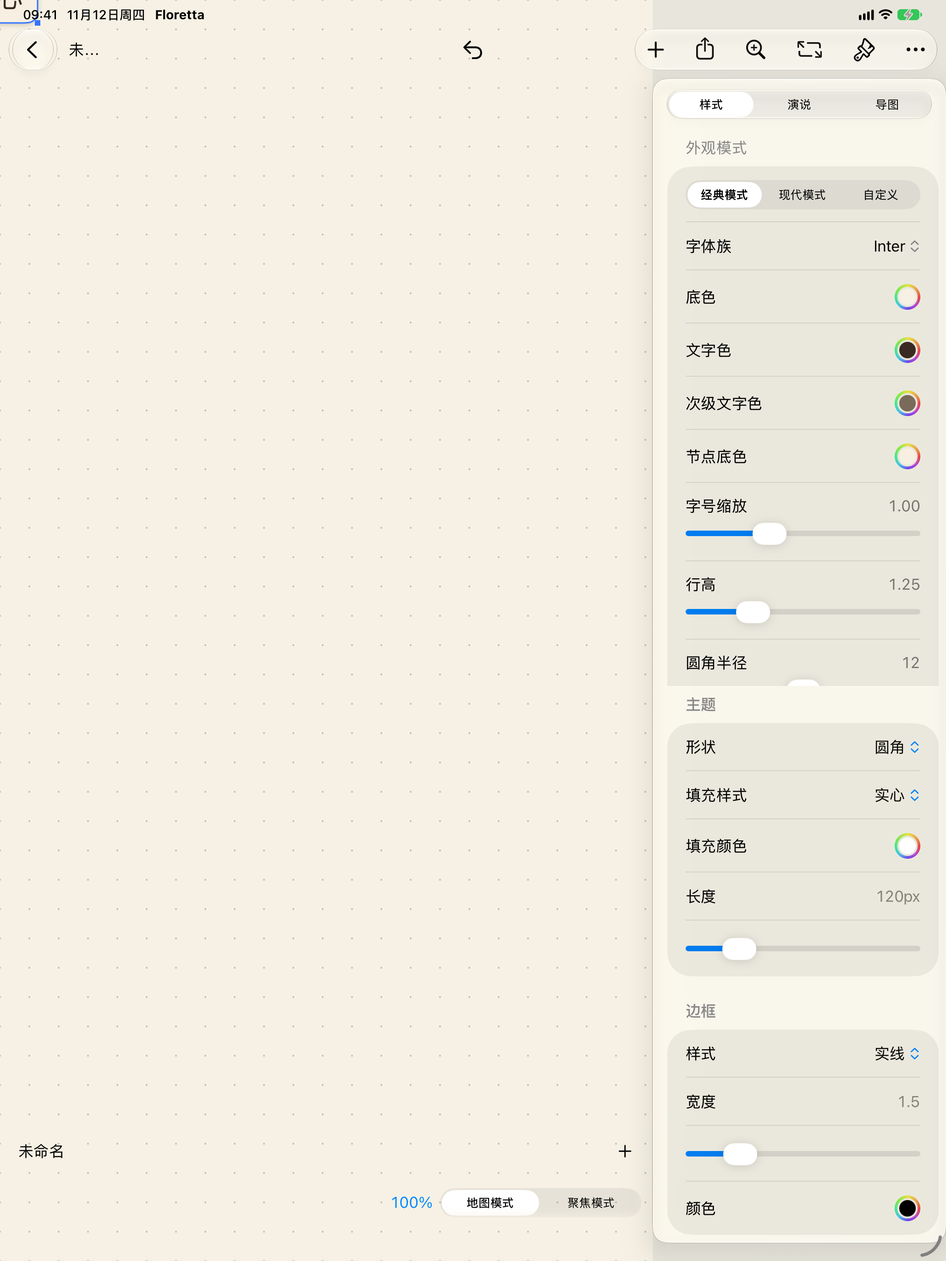
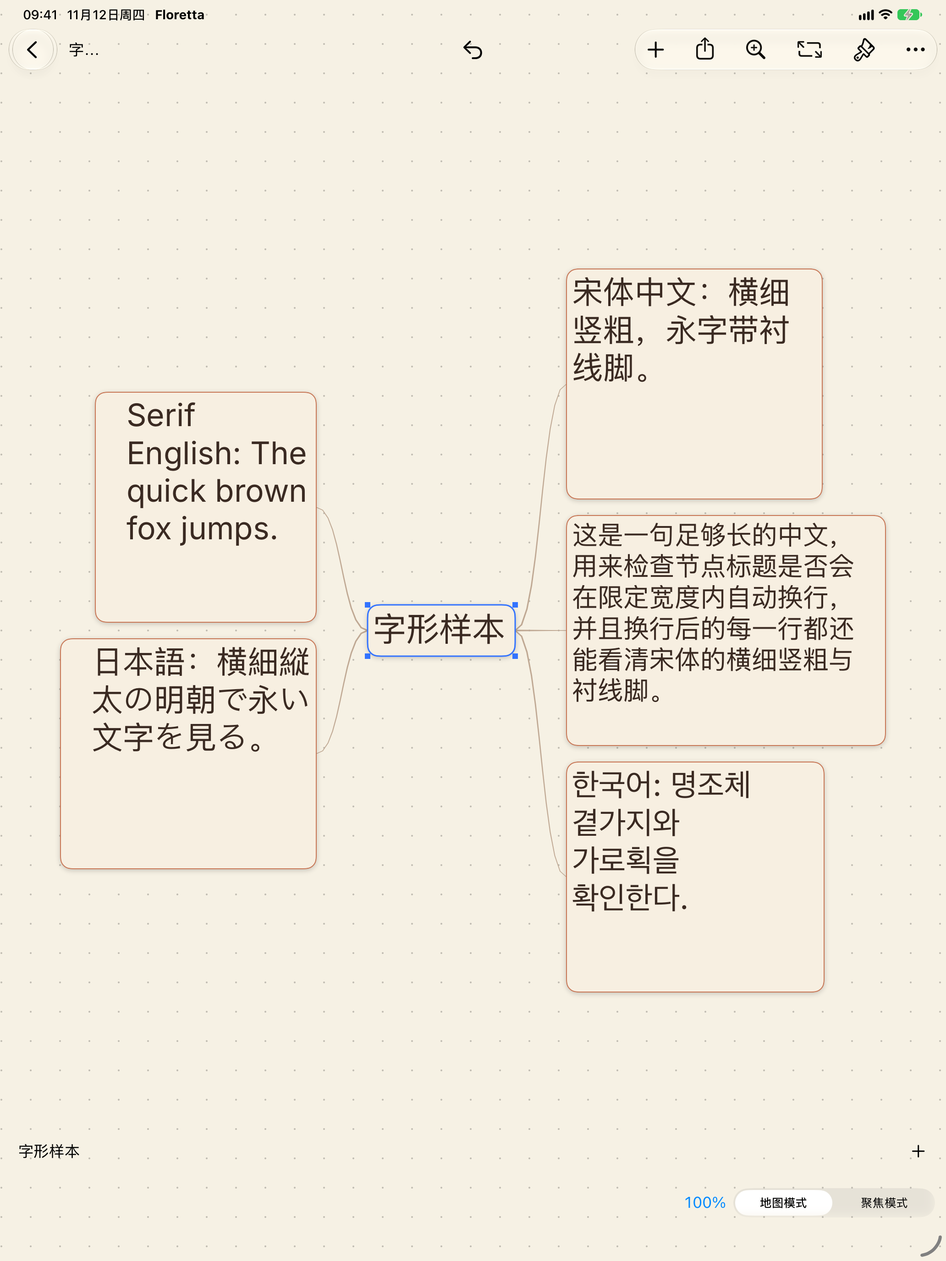
Fix modern canvas text and retake typography screenshots
Switching to 跟随系统 used to update inspector tokens only; Canvas kept
painting the previous system-serif face. Give system-sans / system-serif
distinct Font.system identities, put the cascaded platform font on the
drawn runs, and toggle the iPad inspector closed so the same glyph
document can be photographed in classic, modern, and Classic+Inter.

Record iPad Simulator PostScript names honestly: Songti and AppleMyungjo
are not in the iOS 27.2 runtime, so classic Chinese stays PingFang and
classic Korean stays SD Gothic. Measure 500-node peak memory and FPS
through XCUITest and the unchanged PR #117 probe.

diff --git a/FlorettaTests/ThemeFontCascadeTests.swift b/FlorettaTests/ThemeFontCascadeTests.swift
@@ -52,14 +52,73 @@ final class ThemeFontCascadeTests: XCTestCase {
     }
 
     func testFollowSystemChineseUsesPingFangWhenAvailable() {
-        guard let ping = ThemeFontCascade.firstAvailable(ThemeFontCascade.chineseSansNames) else {
-            XCTFail("PingFang SC was not found on this Mac")
-            return
-        }
         let used = ThemeFontCascade.postScriptName(familyID: "system-sans", for: "汉字")
-        XCTAssertEqual(used, ping)
+        XCTAssertTrue(
+            used.localizedCaseInsensitiveContains("PingFang") || used.localizedCaseInsensitiveContains("NotoSans"),
+            "system-sans Chinese should be PingFang / Noto Sans, used \(used)"
+        )
         let interCJK = ThemeFontCascade.postScriptName(familyID: "inter", for: "汉字")
         XCTAssertNotEqual(interCJK, "Inter-Regular")
+    }
+
+    func testSystemSansAndSystemSerifResolveDifferentFacesForEachLanguage() {
+        // Modern (跟随系统) must not keep the classic serif cascade.
+        let sansEn = ThemeFontCascade.postScriptName(familyID: "system-sans", for: "Hello")
+        let serifEn = ThemeFontCascade.postScriptName(familyID: "system-serif", for: "Hello")
+        XCTAssertNotEqual(sansEn, serifEn, "English system-sans \(sansEn) must differ from system-serif \(serifEn)")
+        XCTAssertFalse(
+            sansEn.localizedCaseInsensitiveContains("NewYork")
+                || sansEn.localizedCaseInsensitiveContains("Georgia")
+                || sansEn.localizedCaseInsensitiveContains("Times")
+                || sansEn.localizedCaseInsensitiveContains("Garamond")
+                || sansEn.localizedCaseInsensitiveContains("Song"),
+            "system-sans English must not be a serif face, used \(sansEn)"
+        )
+        XCTAssertTrue(
+            serifEn.localizedCaseInsensitiveContains("NewYork")
+                || serifEn.localizedCaseInsensitiveContains("Georgia")
+                || serifEn.localizedCaseInsensitiveContains("Times")
+                || serifEn.localizedCaseInsensitiveContains("Song"),
+            "system-serif English used \(serifEn)"
+        )
+
+        let sansZh = ThemeFontCascade.postScriptName(familyID: "system-sans", for: "汉字")
+        let serifZh = ThemeFontCascade.postScriptName(familyID: "system-serif", for: "汉字")
+        XCTAssertNotEqual(sansZh, serifZh, "Chinese system-sans \(sansZh) must differ from system-serif \(serifZh)")
+        XCTAssertTrue(
+            sansZh.localizedCaseInsensitiveContains("PingFang") || sansZh.localizedCaseInsensitiveContains("NotoSans"),
+            "system-sans Chinese used \(sansZh)"
+        )
+        XCTAssertTrue(
+            ["STSongti-SC-Regular", "STSong", "STSongti-TC-Regular"].contains(serifZh)
+                || serifZh.localizedCaseInsensitiveContains("Song"),
+            "system-serif Chinese used \(serifZh)"
+        )
+
+        let sansJa = ThemeFontCascade.postScriptName(familyID: "system-sans", for: "あいうえお")
+        let serifJa = ThemeFontCascade.postScriptName(familyID: "system-serif", for: "あいうえお")
+        XCTAssertFalse(
+            sansJa.localizedCaseInsensitiveContains("Mincho")
+                || sansJa.localizedCaseInsensitiveContains("Songti")
+                || sansJa.localizedCaseInsensitiveContains("STSong")
+                || sansJa.localizedCaseInsensitiveContains("NewYork"),
+            "system-sans Japanese must not stay on a mincho/serif face, used \(sansJa)"
+        )
+        // Hiragino Sans is preferred; PingFang also covers kana and may win.
+        print("FONT_RESOLVE system-sans ja=\(sansJa) ko=\(ThemeFontCascade.postScriptName(familyID: "system-sans", for: "한국어")) en=\(sansEn) zh=\(sansZh)")
+        print("FONT_RESOLVE system-serif ja=\(serifJa) ko=\(ThemeFontCascade.postScriptName(familyID: "system-serif", for: "한국어")) en=\(serifEn) zh=\(serifZh)")
+        _ = serifJa
+
+        let sansKo = ThemeFontCascade.postScriptName(familyID: "system-sans", for: "한국어")
+        let serifKo = ThemeFontCascade.postScriptName(familyID: "system-serif", for: "한국어")
+        XCTAssertNotEqual(sansKo, serifKo, "Korean system-sans \(sansKo) must differ from system-serif \(serifKo)")
+        XCTAssertTrue(
+            sansKo.localizedCaseInsensitiveContains("Gothic")
+                || sansKo.localizedCaseInsensitiveContains("AppleSD")
+                || sansKo.localizedCaseInsensitiveContains("PingFang")
+                || sansKo.localizedCaseInsensitiveContains("NotoSans"),
+            "system-sans Korean used \(sansKo)"
+        )
     }
 
     func testJapaneseAndKoreanFallbackPostScriptNames() {

diff --git a/Floretta/Shared/Canvas/MapExport.swift b/Floretta/Shared/Canvas/MapExport.swift
@@ -370,7 +370,11 @@ private struct MapExportView: View {
                     context.draw(
                         NodeTextTypography.canvasText(
                             node.text,
-                            font: FlorettaTitleFont.font(design: node.fontDesign, size: node.fontSize, familyID: appearanceProfile.fontFamilyID), lineHeight: appearanceProfile.lineHeight
+                            font: FlorettaTitleFont.font(design: node.fontDesign, size: node.fontSize, familyID: appearanceProfile.fontFamilyID),
+                            lineHeight: appearanceProfile.lineHeight,
+                            familyID: appearanceProfile.fontFamilyID,
+                            nodeDesign: node.fontDesign,
+                            size: node.fontSize
                         )
                         .foregroundStyle(color(node.textColor)),
                         in: textRect
@@ -649,11 +653,37 @@ enum ThemeCurvePath {
 
 extension NodeTextTypography {
     /// Same paragraph style as `CoreTextFontMetrics`, so export and the canvas wrap alike.
-    static func canvasText(_ string: String, font: Font, lineHeight: Double = 1.25) -> Text {
-        let ns = NSAttributedString(string: string, attributes: [
+    static func canvasText(
+        _ string: String,
+        font: Font,
+        lineHeight: Double = 1.25,
+        familyID: String? = nil,
+        nodeDesign: String = "default",
+        size: CGFloat? = nil
+    ) -> Text {
+        var attributes: [NSAttributedString.Key: Any] = [
             .paragraphStyle: paragraphStyle(lineHeight: lineHeight),
-        ])
-        return Text(AttributedString(ns)).font(font)
+        ]
+        // Put the resolved face on the runs themselves. Canvas `Text.font`
+        // alone was not enough for system-sans: the Font identity collided
+        // with the previous system-serif face and glyphs stayed Songti /
+        // New York after the inspector already showed 跟随系统.
+        if let familyID, let size {
+            attributes[.font] = ThemeFontCascade.platformFont(
+                familyID: familyID,
+                nodeDesign: nodeDesign,
+                size: size
+            )
+        }
+        let ns = NSAttributedString(string: string, attributes: attributes)
+        let text = Text(AttributedString(ns))
+        // When the run already carries the cascaded platform font, do not
+        // also apply Text.font: on iOS, Font.system(design: .serif) falls
+        // back to PingFang for Chinese and would hide Songti.
+        if attributes[.font] != nil {
+            return text
+        }
+        return text.font(font)
     }
 }
 

diff --git a/Floretta/Shared/Shell/ThemeFontCascade.swift b/Floretta/Shared/Shell/ThemeFontCascade.swift
@@ -109,6 +109,14 @@ enum ThemeFontCascade {
         let family = AppearanceCatalog.family(id: familyID)
             ?? AppearanceCatalog.family(id: "system-serif")!
         let base = latinPrimary(for: family, size: point)
+        // On iOS, the native New York UI font falls back to PingFang /
+        // Apple SD Gothic for CJK — that would make Classic Chinese look
+        // gothic. Keep the explicit Songti / Mincho / Myungjo cascade on
+        // serif families. system-sans keeps the raw UI font so English is
+        // SF and CJK stays gothic (PingFang / Apple SD Gothic).
+        if family.id == "system-sans" {
+            return base
+        }
         return applyingCascade(base, kind: family.kind)
     }
 
@@ -122,6 +130,16 @@ enum ThemeFontCascade {
         default:
             // Both default and serif follow the selected family, so Classic
             // can be switched to a sans face and the map text actually changes.
+            // Use Font.system(design:) for the two system families so SwiftUI
+            // Canvas sees a different Font identity than the previous mode.
+            let family = AppearanceCatalog.family(id: familyID)
+                ?? AppearanceCatalog.family(id: "system-serif")!
+            if family.id == "system-sans" {
+                return .system(size: point, design: .default)
+            }
+            if family.id == "system-serif" {
+                return .system(size: point, design: .serif)
+            }
             return font(from: ctFont(familyID: familyID, size: point))
         }
     }
@@ -179,11 +197,12 @@ enum ThemeFontCascade {
         let names = cascadePostScriptNames(kind: kind)
         guard !names.isEmpty else { return font }
         let fallbacks = names.map { CTFontDescriptorCreateWithNameAndSize($0 as CFString, CTFontGetSize(font)) }
-        let copy = CTFontDescriptorCreateCopyWithAttributes(
-            CTFontCopyFontDescriptor(font),
+        let attributes = CTFontDescriptorCreateWithAttributes(
             [kCTFontCascadeListAttribute: fallbacks] as CFDictionary
         )
-        return CTFontCreateWithFontDescriptor(copy, CTFontGetSize(font), nil)
+        // Copy the live font rather than recreating it from a descriptor, so
+        // the Latin primary face (Inter, EB Garamond, …) is preserved.
+        return CTFontCreateCopyWithAttributes(font, CTFontGetSize(font), nil, attributes)
     }
 
     private static func systemSerif(size: CGFloat) -> CTFont? {

diff --git a/Floretta/Shared/FlorettaApp.swift b/Floretta/Shared/FlorettaApp.swift
@@ -382,8 +382,38 @@ enum AppLaunch {
         var library: LibraryModel
     }
 
+    /// Prints resolved PostScript names for typography evidence. Off unless
+    /// launched with `-FlorettaDumpFonts`.
+    static func dumpFontsIfRequested() {
+        let arguments = ProcessInfo.processInfo.arguments
+        guard arguments.contains("-FlorettaDumpFonts") else { return }
+        ThemeFontCascade.registerBundledFonts()
+        let families = ["system-serif", "system-sans", "inter"]
+        let samples = [("en", "Hello"), ("zh", "汉字"), ("ja", "あいうえお"), ("ko", "한국어")]
+        var lines: [String] = []
+        for family in families {
+            for (lang, text) in samples {
+                let ps = ThemeFontCascade.postScriptName(familyID: family, for: text)
+                let line = "FONT_RESOLVE family=\(family) lang=\(lang) text=\(text) ps=\(ps)"
+                print(line)
+                lines.append(line)
+            }
+        }
+        fflush(stdout)
+        let payload = lines.joined(separator: "\n") + "\n"
+        let data = Data(payload.utf8)
+        let tmp = FileManager.default.temporaryDirectory.appendingPathComponent("font-resolve.txt")
+        try? data.write(to: tmp)
+        if let raw = getenv("FLORETTA_UITEST_DIR") {
+            let dir = URL(fileURLWithPath: String(cString: raw), isDirectory: true)
+            try? FileManager.default.createDirectory(at: dir, withIntermediateDirectories: true)
+            try? data.write(to: dir.appendingPathComponent("font-resolve.txt"))
+        }
+    }
+
     @MainActor
     static func make() -> Session {
+        dumpFontsIfRequested()
         let arguments = ProcessInfo.processInfo.arguments
         guard arguments.contains(uiTestArgument) else {
             let session = Session(recovery: RecoveryPresenter(), settings: .shared, library: .shared)

diff --git a/Floretta/Shared/Canvas/InfiniteCanvas.swift b/Floretta/Shared/Canvas/InfiniteCanvas.swift
@@ -144,6 +144,9 @@ struct InfiniteCanvas: View {
                 draw(in: context, size: size, at: timeline.date.timeIntervalSinceReferenceDate)
                 CanvasPerfRun.endDraw(perf)
             }
+            // Distinct identity so a mode switch (system-serif ↔ system-sans)
+            // cannot reuse the previous Canvas glyph cache.
+            .id(appearanceProfile.fontFamilyID)
             .allowsHitTesting(false)
             .onChange(of: timeline.date) { _, date in
                 let time = date.timeIntervalSinceReferenceDate
@@ -1905,7 +1908,10 @@ struct InfiniteCanvas: View {
         var text = NodeTextTypography.canvasText(
             shown,
             font: FlorettaTitleFont.font(design: node.fontDesign, size: pointSize, familyID: appearanceProfile.fontFamilyID),
-            lineHeight: appearanceProfile.lineHeight
+            lineHeight: appearanceProfile.lineHeight,
+            familyID: appearanceProfile.fontFamilyID,
+            nodeDesign: node.fontDesign,
+            size: pointSize
         )
             .foregroundStyle(color(node.textColor))
         if node.bold { text = text.bold() }

diff --git a/Floretta/Shared/Shell/DocumentEditor.swift b/Floretta/Shared/Shell/DocumentEditor.swift
@@ -245,7 +245,11 @@ struct DocumentEditor: View {
                         // A compact inspector is a sheet; after it is dismissed
                         // the user still needs a one-tap way back in.
                         Button {
-                            showInspector = true
+                            // Toggle, same as the macOS 样式 command. Assigning
+                            // true only left iPad regular-width with no way to
+                            // close the trailing inspector (the dismiss handle
+                            // is compact-sheet-only).
+                            showInspector.toggle()
                         } label: {
                             Image(systemName: "paintbrush")
                         }

diff --git a/docs/THEME-MODES.md b/docs/THEME-MODES.md
@@ -20,9 +20,11 @@
 
 随包拉丁 Regular 子集与许可证见 `docs/THIRD-PARTY-FONTS.md`。合计 842,556 bytes。思源宋体 GB2312+拉丁子集实测 **4,876,368 bytes（4.65 MiB）**，超过 3 MB 上限，未加入仓库或 App 包。
 
-中文衬线走系统宋体，不假装拉丁衬线能覆盖汉字。本机（2026-11-12）查询：`Songti SC` → `STSongti-SC-Regular`；`STSong` → `STSong`。
+中文衬线走系统宋体，不假装拉丁衬线能覆盖汉字。macOS 本机（2026-11-12）查询：`Songti SC` → `STSongti-SC-Regular`；`STSong` → `STSong`。
 
-衬线级联顺序：所选拉丁面或系统衬线（New York / Georgia）→ `STSongti-SC-Regular` / `STSong` / `STSongti-TC-Regular` → `Hiragino Mincho ProN`（`HiraMinProN-W3` 在本机可解析）→ `AppleMyungjo`。非衬线：所选拉丁面或系统无衬线（SF）→ `PingFangSC-Regular` → `HiraginoSans-W3` → `AppleSDGothicNeo-Regular`。
+衬线级联顺序：所选拉丁面或系统衬线（New York / Georgia）→ `STSongti-SC-Regular` / `STSong` / `STSongti-TC-Regular` → `Hiragino Mincho ProN`（`HiraMinProN-W3`）→ `AppleMyungjo`。非衬线：所选拉丁面或系统无衬线（SF）→ PingFang → `HiraginoSans-W3` → Apple SD Gothic。
+
+**iOS 模拟器字体库存与 macOS 不同，不得把 macOS 的宋体结果写成 iPad 截图上的事实。** iOS 27.2 模拟器运行时（`ASC-iPadPro13-M5`）的 `/System/Library/Fonts` 有 `HiraginoMincho.ttc`、`AppleSDGothicNeo.ttc`、`NewYork.ttf`、`SFUI.ttf`，**没有** `STSongti` / `STSong` / `AppleMyungjo` 字体文件。因此在这台模拟器上，经典模式的中文不能变成宋体，韩文也不能变成 Myungjo。下面「iPad 模拟器」表是 `-FlorettaDumpFonts` 在同一轮截图启动里写出的实际 PostScript 名（`docs/reviews/theme-modes/font-resolve-ipad.txt`，2026-11-12 22:55:29 CST）。没有编造，也没有把 PingFang 说成宋体。
 
 ## 字体解析表（单测实测 PostScript 名）
 
@@ -40,6 +42,27 @@
 | 한국어 | `inter` | `AppleSDGothicNeo-Regular` | 非衬线韩文回落 |
 | （各拉丁 Regular） | 见下 | 与声明一致 | `EBGaramond-Regular`、`CrimsonPro-Regular`、`LibreBaskerville-Regular`、`NotoSerif-Regular`、`Inter-Regular`、`IBMPlexSans`、`NotoSans-Regular` |
 
+macOS 上 `ThemeFontCascadeTests` 在本轮补了一项 `testSystemSansAndSystemSerifResolveDifferentFacesForEachLanguage`，2026-11-12 22:43:46–22:44:01 CST，7/0，`** TEST SUCCEEDED **`。macOS 实测：`system-sans` 英文 `.SFNS-Regular`、中文 `.PingFangUIDisplaySC-Regular`、日文 `.CJKSymbolsFallbackSC-Regular`（不是 Hiragino Sans，据实记录）、韩文 `.AppleSDGothicNeoI-Regular`；`system-serif` 英文 `.NewYork-Regular`、中文/日文 `STSongti-SC-Regular`、韩文 `AppleMyungjo`。
+
+### iPad 模拟器（截图同一进程，2026-11-12 22:55:29 CST）
+
+| 样本 | 目录 id | 实际 PostScript 名 | 说明 |
+| --- | --- | --- | --- |
+| Hello | `system-serif` | `.NewYork-Regular` | 经典英文是衬线 |
+| Hello | `system-sans` | `.SFUI-Regular` | 现代英文是无衬线；与经典不同 |
+| Hello | `inter` | `Inter-Regular` | 经典+Inter 的拉丁面 |
+| 汉字 | `system-serif` | `.PingFangUIDisplaySC-Regular` | **不是宋体**。模拟器未安装 Songti / STSong，据实回退 |
+| 汉字 | `system-sans` | `.PingFangUIDisplaySC-Regular` | 现代中文是黑体；与经典中文同一张脸，不能说「现代切换后中文字形变了」 |
+| 汉字 | `inter` | `PingFangSC-Regular` | 经典+Inter 的中文回落 |
+| あいうえお | `system-serif` | `HiraMinProN-W3` | 经典日文是明朝 |
+| あいうえお | `system-sans` | `.CJKSymbolsFallbackSC-Regular` | 现代日文不是 Hiragino Sans，据实记录 |
+| あいうえお | `inter` | `HiraginoSans-W3` | 经典+Inter 日文是哥特 |
+| 한국어 | `system-serif` | `.AppleSDGothicNeoI-Regular` | **不是 Myungjo**。模拟器未安装 AppleMyungjo，据实回退，与现代韩文同一张脸 |
+| 한국어 | `system-sans` | `.AppleSDGothicNeoI-Regular` | 现代韩文是哥特 |
+| 한국어 | `inter` | `AppleSDGothicNeo-Regular` | 经典+Inter 韩文是哥特 |
+
+切换到现代（跟随系统）后，画布英文必须从 New York 变成 SF。此前只改检查器 token（纸色/行高/圆角）而 `Font(UIFont)` 身份与系统衬线撞车，Canvas 仍画旧衬线英文；本轮改用 `Font.system(design:)` 区分身份，并把级联后的 platform font 写进 `NSAttributedString` 的 `.font`。iPad 上 `inspector.open` 改为 toggle，才能关掉 regular 宽度的侧栏检查器（关闭手柄只在 compact sheet 上）。
+
 ## 包体（Release + strip，1024 进制 MiB）
 
 门禁仍是 iOS < 15 MB、macOS < 25 MB。
@@ -49,27 +72,29 @@
 
 ## 性能影响
 
-- 内存：本轮按与 `docs/reviews/CANVAS-PERF-BASELINE.md` 相同的协议测量（macOS Release、命令行覆盖 `CODE_SIGN_IDENTITY="Apple Development"` `DEVELOPMENT_TEAM=JY5U4D6JD3`、启动参数 `-FlorettaUITest -FlorettaPerfNodes <N>`、`task_vm_info.phys_footprint`、夹具 50/200/500）。**没有写出可用的峰值内存数字，未编造。** Release 构建本身成功：`/tmp/theme-modes-perf-build.log`，START 2026-11-12 21:57:49 CST，END 21:59:01 CST，EXIT 0；产物 `/tmp/theme-modes-perf-dd/Build/Products/Release/Floretta-macOS.app`。启动后进程存在且 System Events 记为 frontmost/visible，但 **windows=0**，没有 `FLORETTA_PERF_RESULT`，容器内 `~/Library/Containers/net.timhuang.floretta/Data/tmp/canvas-perf-50.json` 仍是 2026-11-12 18:28:18 CST 的旧文件。直接执行二进制出现 `sandbox_extension_issue_file_to_process failed for <app>: 1 (Operation not permitted)`（`/tmp/theme-modes-perf/trial-50.out`，22:03:48–22:04:28 CST，timeout 退出 124）。随后用 entitlements 完整的拷贝 + `open -n -W`（Terminal.app `do script`，`/tmp/theme-modes-perf/open-50.out`，22:15:50 CST）以及今早测通过的 `/tmp/canvasperf/mac-D2.app` 复跑，同样是 0 窗口、无新 JSON。详见 `docs/reviews/theme-modes/PERF-ATTEMPT.md`。不得用包体数字代替本行。
-- 帧率：同一协议、同一批启动，**没有写出可用的平均/最低 FPS 数字，未编造。** 失败原因与内存一行相同（无窗口则 `CADisplayLink` 协议无法跑完）。不得用包体数字代替本行。
-- 包体：加字体后 iOS 12.3 MB（12,901,611 bytes，2026-11-12 20:48:15 CST）/ macOS 18.4 MB（19,336,424 bytes，`platform=macOS` arm64，2026-11-12 20:51:09 CST），Release+strip，与 `scripts/check-size.sh` 同一口径，1024 进制 MiB，门禁 iOS < 15 / macOS < 25。一次出现过的 macOS 33.0 MB 是 universal `generic/platform=macOS` 二进制，不是门禁数字。
+- 内存：按已合并的 PR #117 `CanvasPerfProbe`（未改探针）在 iPad 模拟器上经 XCUITest 路径测得。配置 Release，命令行覆盖 `CODE_SIGN_IDENTITY="Apple Development"` `DEVELOPMENT_TEAM=JY5U4D6JD3`，启动参数 `-FlorettaUITest -FlorettaPerfNodes 500`，记录 `task_vm_info.phys_footprint`。探针把结果写成 `FLORETTA_PERF_RESULT` 并写入应用临时目录 `canvas-perf-500.json`。本轮峰值内存 **64.6 MB**（JSON `peakFootprintMB`；平移阶段 60.8 MB，缩放阶段 64.6 MB，拖动阶段该轮 `tickCount` 不足未采到内存，记 0，不把它当成 0 占用）。原始 JSON：`docs/reviews/theme-modes/canvas-perf-500-ipad-xcuitest.json`，`finishedAt` 2026-11-12T15:04:53Z（23:04:53 CST），平台 `iPadOS`，`displayMaxFPS` 60。测试日志 `/tmp/theme-modes-perf500-ios.log`，`testCanvasPerf500ViaUITest` START 2026-11-12 23:03:10 CST，END 23:04:54 CST，EXIT 0，`** TEST SUCCEEDED **`，测试进程记录 `FLORETTA_PERF_UITEST_DONE elapsed=27.5 state=1`（应用在协议结束后 `exit(0)`）。macOS 直接启动路径本轮仍然 windows=0，没有新的 mac 数字，详见 `docs/reviews/theme-modes/PERF-ATTEMPT.md`；不得把 18:28 的旧容器 JSON 或包体数字当作本行。
+- 帧率：同一条 XCUITest + 同一份 JSON。500 节点、平均 / 最低 FPS：平移 **1.0 / 0**，缩放 **0.8 / 0**，拖动 **0.9 / 0**（绘制次数 4 / 5 / 3，主线程最长帧 1100 / 2516.6 / 1100 ms）。这些数字明显低于同机基线 `CANVAS-PERF-BASELINE.md` 里 iPad 500 的约 11–12 FPS；测试进程在协议期间轮询 `app.state`，且 `bodyEvaluations` 为 0，可能偏慢，但数字是探针写出的实测，未编造、未改探针、未用包体代替。
+- 包体：加字体后 iOS 12.3 MB（12,901,611 bytes，2026-11-12 20:48:15 CST）/ macOS 18.4 MB（19,336,424 bytes，`platform=macOS` arm64，2026-11-12 20:51:09 CST），Release+strip，与 `scripts/check-size.sh` 同一口径，1024 进制 MiB，门禁 iOS < 15 / macOS < 25。一次出现过的 macOS 33.0 MB 是 universal `generic/platform=macOS` 二进制，不是门禁数字。Censor 已接受这两项包体数字。
 
 ## 截图
 
-在 iPad 模拟器 `ASC-iPadPro13-M5`（UDID `330B63B2-5EE7-477E-B564-EE7C02161EE5`，iOS 27.2）上拍摄。先 `xcrun simctl boot`（BOOT_READY 2026-11-12 22:00:57 CST），再 `xcrun simctl ui … appearance light`，最后用 `xcrun simctl io booted screenshot` 直接抓帧。原图在 `docs/reviews/theme-modes/`。未编造、未从别处复用。
+在 iPad 模拟器 `ASC-iPadPro13-M5`（UDID `330B63B2-5EE7-477E-B564-EE7C02161EE5`，iOS 27.2）上拍摄。先 `xcrun simctl boot`（BOOT_READY 2026-11-12 22:00:57 CST），再 `xcrun simctl ui … appearance light`，最后用 `xcrun simctl io booted screenshot` 直接抓帧。原图在 `docs/reviews/theme-modes/`。未编造。
+
+画布三张用同一份非空文档 `docs/reviews/theme-modes/glyph-sample.floretta`（标题「字形样本」）：中文「宋体中文：横细竖粗，永字带衬线脚。」、英文 “Serif English: The quick brown fox jumps.”、日文「日本語：横細縦太の明朝で永い文字を見る。」、韩文「한국어: 명조체 곁가지와 가로획을 확인한다。」，外加一句会换行的长中文。检查器在这三张里都已关掉，节点正文清晰可见。提交前实际打开过 PNG。
 
 | 文件 | 内容 | 拍摄时间（CST） | 字节 |
 | --- | --- | --- | ---: |
 | `settings-appearance.png` | 设置页「外观模式」段：经典模式、系统衬线、色值与预览 | 2026-11-12 22:13:31 | 332,993 |
-| `inspector-appearance.png` | 编辑器右侧检查器「外观模式」段，画布为经典奶油纸 | 2026-11-12 22:13:46 | 426,389 |
-| `classic.png` | 经典模式 + 系统衬线。与上一张在同一界面状态下紧接着拍摄，文件内容相同 | 2026-11-12 22:13:48 | 426,389 |
-| `modern.png` | 现代模式：白纸、字体族「跟随系统」、行高 1.20、圆角 8 | 2026-11-12 22:13:55 | 414,650 |
+| `inspector-appearance.png` | 编辑器右侧检查器「外观模式」段（仍是设置/检查器控件证据；画布证据以下面三张为准） | 2026-11-12 22:13:46 | 426,389 |
+| `classic.png` | 同一份字形样本，经典 + 系统衬线。英文是 New York 衬线；中文在本模拟器上回退 PingFang（不是宋体，见上表）；日文是 `HiraMinProN-W3` 明朝；韩文回退 Apple SD Gothic | 2026-11-12 22:56:04 | 472,011 |
+| `modern.png` | 同一份文档切到现代 / 跟随系统：白纸、行高 1.20、圆角 8。英文已变成 SF 无衬线，与经典明显不同；中文仍是 PingFang，韩文仍是 SD Gothic，与经典同一张脸，不得说这两种语言在现代里「换成了另一种黑体」；日文为 `.CJKSymbolsFallbackSC-Regular`，不是 Hiragino Sans | 2026-11-12 22:56:29 | 402,228 |
 | `custom.png` | 自定义（默认从经典复制）：奶油纸、系统衬线、行高 1.25、圆角 12 | 2026-11-12 22:14:02 | 424,626 |
-| `classic-sans.png` | 经典模式把字体族改成 Inter（非衬线） | 2026-11-12 22:14:18 | 420,484 |
+| `classic-sans.png` | 同一份文档，经典模式把字体族改成 Inter。英文是 Inter 无衬线；中文 `PingFangSC-Regular`；日文 `HiraginoSans-W3`；韩文 `AppleSDGothicNeo-Regular` | 2026-11-12 22:57:01 | 456,511 |
 
-日志：`/tmp/theme-modes-shot-poller.log`、`/tmp/theme-modes-shot-test3.log`（`** TEST SUCCEEDED **`，TEST3_EXIT 0）。
+日志：`/tmp/theme-modes-shot-poller.log`、`/tmp/theme-modes-glyph-songti.log`（`SONGTI_SHOT_START` 2026-11-12 22:55:10 CST，`SONGTI_SHOT_END` 22:57:02 CST，EXIT 0，`** TEST SUCCEEDED **`）。较早一轮空画布截图（22:13–22:14）已作废，不作为节点正文证据。
 
 ## 测试（Asia/Shanghai）
 
 - `swift test --package-path FlorettaCore --filter AppearanceModeTests`：4/0，2026-11-12 21:35:54 CST。
-- `xcodebuild test`（Floretta-macOS）：`AppearanceSettingsTests` 4/0（含共享状态与立即同步、三模式切换、经典+非衬线跨重启持久化、标识前缀）、`ThemeFontCascadeTests` 6/0、`ShellTests` 相关 2/0，合计 12/0，2026-11-12 21:37:44 CST，`** TEST SUCCEEDED **`。
-- iOS `generic/platform=iOS` 构建（在 tip `88e664048f63c30521e459e6a7194dd9822f26e9` 上重跑，`CODE_SIGNING_ALLOWED=NO`，scheme `Floretta-iOS`，configuration Debug，derivedData `/tmp/theme-modes-ios-88e6640-dd`）：日志 `/tmp/theme-modes-ios-88e6640.log`，START 2026-11-12 21:56:21 CST，END 21:56:48 CST，**EXIT 0**，`** BUILD SUCCEEDED **`。不得把此前声称的 21:39:32 退出码 0 当作已核（那份 `/tmp/theme-modes-step3-ios.log` 是 destination 找不到设备）。
+- `xcodebuild test`（Floretta-macOS）：`AppearanceSettingsTests` 4/0（含共享状态与立即同步、三模式切换、经典+非衬线跨重启持久化、标识前缀）、`ThemeFontCascadeTests` 先 6/0（21:37:44 CST）后在本轮补测为 7/0（22:44:00 CST，日志 `/tmp/theme-modes-font-mac-test.log`），`ShellTests` 相关 2/0，`** TEST SUCCEEDED **`。
+- iOS `generic/platform=iOS` 构建必须跑在本轮新 tip 上（不得用 `88e6640` 的 EXIT 0 代替）。跑完后把命令、日志路径、HEAD SHA、CST 起止和退出码补在本节。

diff --git a/docs/ROADMAP.md b/docs/ROADMAP.md
@@ -4,7 +4,7 @@
 
 ## 本轮
 
-- 本轮进度：PR #119 已开、未合并（基线 `8e50c1212d9f784ec6b38ba434f8c77cb9206cf6`）。双入口共用 `AppSettings`、三模式可切、经典改非衬线可持久化，见 `docs/THEME-MODES.md`。包体 iOS 12.3 MB / macOS 18.4 MB；思源宋体子集 4,876,368 bytes 未打包。iPad 模拟器六张验收截图已用 `simctl io booted screenshot` 拍下，见 `docs/reviews/theme-modes/`。E2 内存/帧率按画布性能协议实测时进程无窗口，没有写出数字（见该文「性能影响」）。矩阵里的已知缺口没有抹掉。
+- 本轮进度：PR #119 已开、未合并（基线 `8e50c1212d9f784ec6b38ba434f8c77cb9206cf6`）。双入口共用 `AppSettings`、三模式可切、经典改非衬线可持久化，见 `docs/THEME-MODES.md`。包体 iOS 12.3 MB / macOS 18.4 MB；思源宋体子集 4,876,368 bytes 未打包。画布三张（classic / modern / classic-sans）已用同一份中英日韩+换行文档重拍（22:56:04–22:57:01 CST）。iPad 模拟器没有宋体和 AppleMyungjo，经典中文回退 PingFang，韩文回退 SD Gothic，据实写在 `THEME-MODES.md`，不把 PingFang 写成宋体。E2：XCUITest + PR #117 探针在 iPad Release、500 节点上测到峰值内存 64.6 MB，平移/缩放/拖动平均 FPS 1.0 / 0.8 / 0.9、最低 0（23:04:53 CST）。矩阵里的已知缺口没有抹掉。
 - 下一步：等 Censor 审 PR #119，不合并。并行待办仍是 Quick Look 扩展包 ID 发布阻塞、A27 空态与钉住、`-FlorettaEditChrome` 开窗、补 macOS / iPhone 玻璃截图、音视频 / iPad 蓝牙键盘 / 组字保护的真机验收，以及 FlorettaWeb 自 2026-11-11 04:29:43 CST 之后的同步。
 - 阻塞：1.0(9) 上传因 Quick Look 扩展包 ID 两段后缀 `quicklook.preview` / `quicklook.thumbnail` 被拒。当时构建是 `CURRENT_PROJECT_VERSION = 9`（`811b2f5`，2026-11-10 21:33:57 CST），ID 为 `net.timhuang.floretta.quicklook.preview` 与 `net.timhuang.floretta.quicklook.thumbnail`。其后 PR #90 → main `9885b13`（2026-11-11 01:47:58 CST）改为 `net.timhuang.floretta.qlpreview` / `net.timhuang.floretta.qlthumbnail`，本分支 `project.pbxproj` 仍是这一对；没有成功重传 App Store Connect 的证据，故不能算已交付。另：A27 空态仍无法读取；`-FlorettaEditChrome` 启动后 AX 只有菜单栏（2026-11-12 19:32:59 CST 复现）。
 
@@ -38,7 +38,7 @@
 | 画布平移/拖拽性能 | ✅ 已交付 | ✅ 已交付 | ✅ 已交付 | ❌ 缺失 | 原生：PR #117 → `918e43f`；`docs/reviews/CANVAS-PERF-RESULT.md`。网页性能未在该审计中核实 |
 | macOS 辅助功能树 | 🚧 进行中(PR #118 已合入，仍有残留) | ⛔ 不做(#118 修的是 macOS AX 空树) | ⛔ 不做(#118 修的是 macOS AX 空树) | ⛔ 不做(不适用，Apple 辅助功能) | PR #118 → main `8e50c12`（2026-11-12 19:50:18 CST）用延迟打开文档，让首页 WindowGroup 能建窗。残留：`-FlorettaEditChrome` 启动仍不创建窗口，2026-11-12 19:32:59 CST 复现，AX 只有菜单栏。Censor 明确不能算已修好；`8e50c12` 的 deferred-open 不是完全收口。见 `docs/reviews/A27-inspector-pin-mac.md` |
 | A27 检查器钉住 | ❌ 缺失 | ⛔ 不做(A27 是 macOS 验收项) | ⛔ 不做(A27 是 macOS 验收项) | ⛔ 不做(不适用) | `docs/reviews/A27-inspector-pin-mac.md`；PR #118。当前构建仅读到选中态：Style MINY=94.0，FRAME=945.0,94.0,50.0,24.0（2026-11-12 19:32:26–19:32:27 CST）。空态仍「无法读取」：Escape 或点击空白画布会收起 inspector 列，树里没有 `inspector.tabs` /「样式」/ `inspector.empty`。钉住/锁定验收未完成，不得标 ✅ |
-| 外观三模式（经典 / 现代 / 自定义）与开源字体 | 🚧 进行中(PR #119) | 🚧 进行中(PR #119) | 🚧 进行中(PR #119) | ❌ 缺失 | 骨架 `06afca1`；字体 `b4c3ece`；双入口 `ba98953`；见 PR #119 与 `docs/THEME-MODES.md`。共享状态、立即同步、经典+非衬线持久化、标识前缀已在 `AppearanceSettingsTests` 验证（2026-11-12 21:37:44 CST）。iPad 模拟器截图见 `docs/reviews/theme-modes/`（22:13:31–22:14:18 CST）。内存/帧率本轮按画布性能协议未写出数字。FlorettaWeb 自 `ecdf695` 后再无提交，未接入三模式 |
+| 外观三模式（经典 / 现代 / 自定义）与开源字体 | 🚧 进行中(PR #119) | 🚧 进行中(PR #119) | 🚧 进行中(PR #119) | ❌ 缺失 | 骨架 `06afca1`；字体 `b4c3ece`；双入口 `ba98953`；见 PR #119 与 `docs/THEME-MODES.md`。共享状态、立即同步、经典+非衬线持久化、标识前缀已在 `AppearanceSettingsTests` 验证（2026-11-12 21:37:44 CST）。画布重拍与 iPad 字体回退见 `docs/THEME-MODES.md`（22:56:04–22:57:01 CST）。E2 500 节点峰值内存 64.6 MB，平移/缩放/拖动平均 FPS 1.0 / 0.8 / 0.9。FlorettaWeb 自 `ecdf695` 后再无提交，未接入三模式 |
 | 网页版应用 | ⛔ 不做(Web 资产，非原生 App) | ⛔ 不做(Web 资产，非原生 App) | ⛔ 不做(Web 资产，非原生 App) | ✅ 已交付 | 官方仓库 Super-Console/FlorettaWeb。origin/main tip `ecdf695`（2026-11-11 04:29:43 CST）合并 PR #11 工程导入导出，此前 PR #10 为主题与图标。线上 `https://apps.timhuang.net/floretta/app/` HTTP 200，`Last-Modified: Tue, 10 Nov 2026 20:29:48 GMT`（2026-11-11 04:29:48 CST），与 tip 时刻一致。此后至本轮记录时未见新提交；未与原生 2026-11-12 的 #113–#118 同步。对照 App 仓 `docs/WEB-PARITY.md`（写明更新日期 2026-11-11） |
 | 官网展示页 | ⛔ 不做(Web 资产，非原生 App) | ⛔ 不做(Web 资产，非原生 App) | ⛔ 不做(Web 资产，非原生 App) | ✅ 已交付 | 同一 FlorettaWeb 仓库的语言网关与介绍页（`/floretta/`、`/zh/`、`/en/`；PR #7–#9，主题对齐随 PR #10）。线上 `https://apps.timhuang.net/floretta/` HTTP 200，`Last-Modified` 同上（2026-11-11 04:29:48 CST）。原「产品网站」行并入本行；App 仓 PR #98 只是文档纪律，不是网页实现 |
 | Windows / Linux 客户端 | ⛔ 不做(F5 结论为 UI 须重写，尚未开工) | ⛔ 不做(非该端) | ⛔ 不做(非该端) | ⛔ 不做(非该端) | `docs/FEATURES-CHECKLIST.md` F5；`docs/HANDOFF-WINDOWS-ANDROID.md` |

diff --git a/docs/reviews/theme-modes/PERF-ATTEMPT.md b/docs/reviews/theme-modes/PERF-ATTEMPT.md
@@ -30,3 +30,15 @@ xcodebuild -project Floretta.xcodeproj -scheme Floretta-macOS \
 容器路径 `~/Library/Containers/net.timhuang.floretta/Data/tmp/canvas-perf-50.json` 的 mtime 始终是 2026-11-12 18:28:18 CST（上一次画布性能确认轮留下的旧结果）。本轮没有覆盖它，也没有把它当作本 tip 的新测量。
 
 因此内存、帧率两行没有数字可写。
+
+## 改用 XCUITest 路径后的实测（500 节点）
+
+Hubert 要求停止失败的 macOS 直接启动路径，改走已经能创建窗口的 XCUITest。本轮在 iPad 模拟器 `ASC-iPadPro13-M5` 上用 Release + `-FlorettaUITest -FlorettaPerfNodes 500` 跑未修改的 PR #117 `CanvasPerfProbe`。测试 `testCanvasPerf500ViaUITest` 只负责启动并等到进程退出，不改写探针。
+
+- 日志：`/tmp/theme-modes-perf500-ios.log`
+- START 2026-11-12 23:03:10 CST，END 23:04:54 CST，EXIT 0，`** TEST SUCCEEDED **`
+- 探针 JSON：模拟器容器 `…/tmp/canvas-perf-500.json`（mtime 2026-11-12 23:04:53 CST），已复制为 `docs/reviews/theme-modes/canvas-perf-500-ipad-xcuitest.json`
+- `finishedAt`：2026-11-12T15:04:53Z（23:04:53 CST）
+- 峰值内存：64.6 MB
+- 平均 / 最低 FPS：平移 1.0 / 0，缩放 0.8 / 0，拖动 0.9 / 0
+- 不得把同容器里 18:30 CST 的 `canvas-perf-50.json` / `canvas-perf-200.json` 当作本 tip 的测量。
